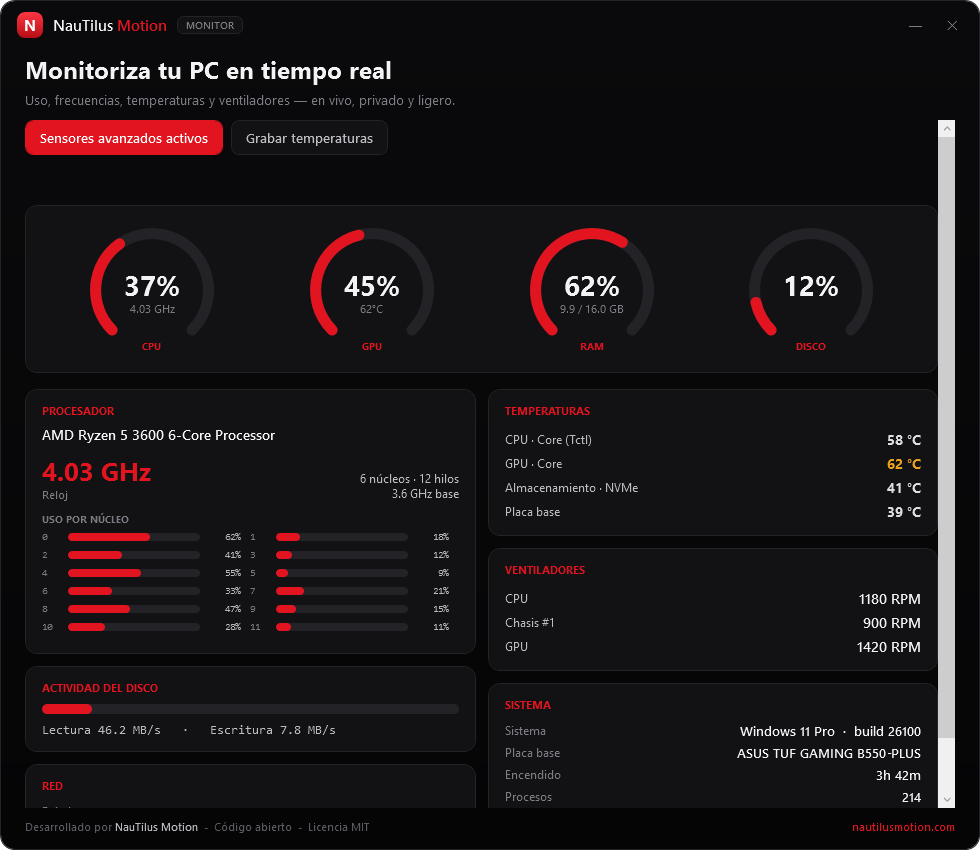
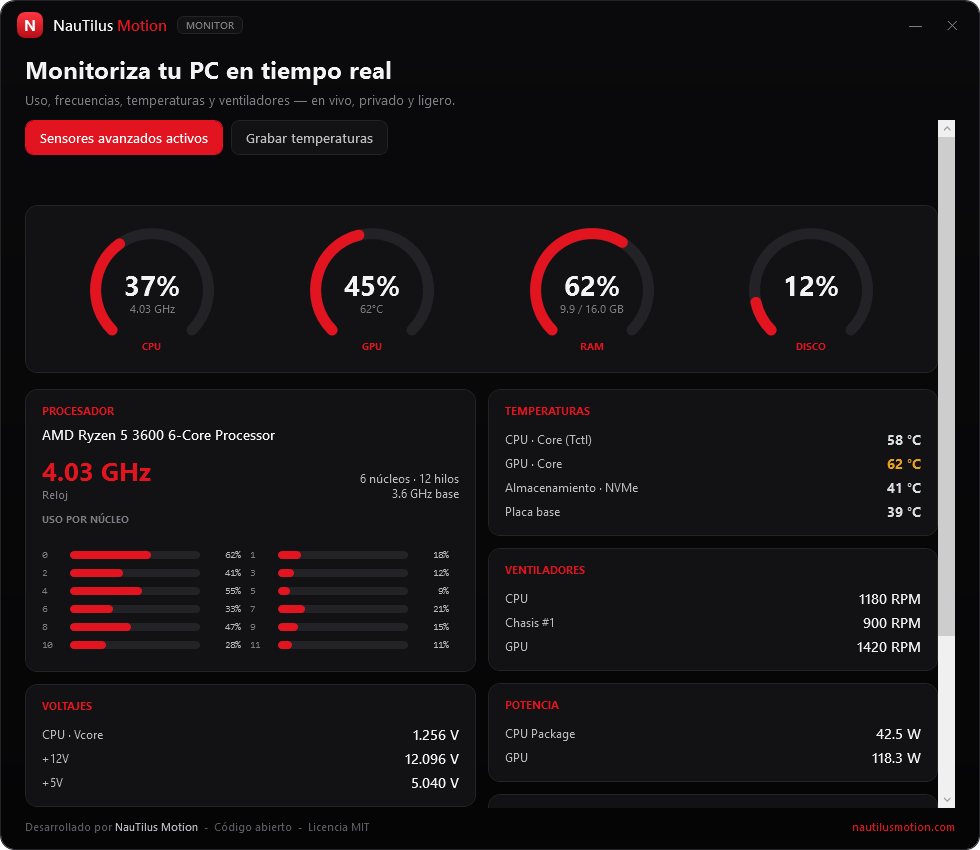
feat: add power/voltage/battery sensors and optional code signing
New sensors: CPU/GPU power (W) and voltages (V) from LibreHardwareMonitor (advanced), battery % and status via GetSystemPowerStatus (laptops/mini-PCs; hidden on desktops), and committed memory via GlobalMemoryStatusEx. New cards auto-hide when a machine doesn't expose them. build.ps1 gains an optional signing step (-SignThumbprint / -SignPfx) via Set-AuthenticodeSignature with timestamping; skipped when no certificate is given.

diff --git a/src/MainWindow.cs b/src/MainWindow.cs
@@ -38,9 +38,10 @@ namespace NautilusMotion.Monitor
         private TextBlock[] _corePcts;
 
         // Fichas dinamicas
-        private StackPanel _tempsHost, _fansHost;
+        private StackPanel _tempsHost, _fansHost, _voltsHost, _powersHost;
+        private Border _voltsCard, _powerCard, _batCard;
         private BarMeter _diskBar;
-        private TextBlock _diskRWTx, _netDownTx, _netUpTx, _uptimeTx, _procTx, _osTx, _boardTx;
+        private TextBlock _diskRWTx, _netDownTx, _netUpTx, _uptimeTx, _procTx, _osTx, _boardTx, _commitTx, _batTx;
 
         // Sensores avanzados
         private Border _advChip;
@@ -205,6 +206,12 @@ namespace NautilusMotion.Monitor
             s.Fans.Add(new FanReading { Name = "CPU", Rpm = 1180 });
             s.Fans.Add(new FanReading { Name = "Chasis #1", Rpm = 900 });
             s.Fans.Add(new FanReading { Name = "GPU", Rpm = 1420 });
+            s.Powers.Add(new SensorReading { Name = "CPU Package", Value = 42.5 });
+            s.Powers.Add(new SensorReading { Name = "GPU", Value = 118.3 });
+            s.Volts.Add(new SensorReading { Name = "CPU · Vcore", Value = 1.256 });
+            s.Volts.Add(new SensorReading { Name = "+12V", Value = 12.096 });
+            s.Volts.Add(new SensorReading { Name = "+5V", Value = 5.04 });
+            s.PageUsedGB = 12.4; s.PageTotalGB = 32.0;
 
             AdvancedSensors.Status = "ok";
             UpdateUi(s);
@@ -285,6 +292,7 @@ namespace NautilusMotion.Monitor
 
             var leftCol = new StackPanel { Margin = new Thickness(0, 0, 6, 0) };
             leftCol.Children.Add(BuildCpuCard());
+            leftCol.Children.Add(BuildVoltsCard());
             leftCol.Children.Add(BuildDiskCard());
             leftCol.Children.Add(BuildNetCard());
             Grid.SetColumn(leftCol, 0);
@@ -293,6 +301,8 @@ namespace NautilusMotion.Monitor
             var rightCol = new StackPanel { Margin = new Thickness(6, 0, 0, 0) };
             rightCol.Children.Add(BuildTempsCard());
             rightCol.Children.Add(BuildFansCard());
+            rightCol.Children.Add(BuildPowerCard());
+            rightCol.Children.Add(BuildBatteryCard());
             rightCol.Children.Add(BuildSystemCard());
             Grid.SetColumn(rightCol, 1);
             g.Children.Add(rightCol);
@@ -426,6 +436,39 @@ namespace NautilusMotion.Monitor
             return card;
         }
 
+        private UIElement BuildVoltsCard()
+        {
+            _voltsCard = Card();
+            var sp = (StackPanel)_voltsCard.Child;
+            sp.Children.Add(Header(Loc.T("card.volts")));
+            _voltsHost = new StackPanel { Margin = new Thickness(0, 2, 0, 0) };
+            sp.Children.Add(_voltsHost);
+            _voltsCard.Visibility = Visibility.Collapsed;   // solo en modo avanzado con datos
+            return _voltsCard;
+        }
+
+        private UIElement BuildPowerCard()
+        {
+            _powerCard = Card();
+            var sp = (StackPanel)_powerCard.Child;
+            sp.Children.Add(Header(Loc.T("card.power")));
+            _powersHost = new StackPanel { Margin = new Thickness(0, 2, 0, 0) };
+            sp.Children.Add(_powersHost);
+            _powerCard.Visibility = Visibility.Collapsed;
+            return _powerCard;
+        }
+
+        private UIElement BuildBatteryCard()
+        {
+            _batCard = Card();
+            var sp = (StackPanel)_batCard.Child;
+            sp.Children.Add(Header(Loc.T("card.battery")));
+            _batTx = new TextBlock { Text = "--", Foreground = Theme.TitleText, FontSize = 15, FontWeight = FontWeights.SemiBold, Margin = new Thickness(0, 2, 0, 0) };
+            sp.Children.Add(_batTx);
+            _batCard.Visibility = Visibility.Collapsed;      // solo si hay bateria
+            return _batCard;
+        }
+
         private UIElement BuildDiskCard()
         {
             var card = Card();
@@ -455,9 +498,10 @@ namespace NautilusMotion.Monitor
             var card = Card();
             var sp = (StackPanel)card.Child;
             sp.Children.Add(Header(Loc.T("card.system")));
-            _osTx = KvValue(); _boardTx = KvValue(); _uptimeTx = KvValue(); _procTx = KvValue();
+            _osTx = KvValue(); _boardTx = KvValue(); _uptimeTx = KvValue(); _procTx = KvValue(); _commitTx = KvValue();
             sp.Children.Add(Kv(Loc.T("lbl.os"), _osTx));
             sp.Children.Add(Kv(Loc.T("lbl.board"), _boardTx));
+            sp.Children.Add(Kv(Loc.T("lbl.commit"), _commitTx));
             sp.Children.Add(Kv(Loc.T("lbl.uptime"), _uptimeTx));
             sp.Children.Add(Kv(Loc.T("lbl.processes"), _procTx));
             return card;
@@ -572,6 +616,10 @@ namespace NautilusMotion.Monitor
                 foreach (FanReading f in s.Fans)
                     _fansHost.Children.Add(FanRow(f));
 
+            // Potencia y voltajes (solo modo avanzado; la ficha se oculta si no hay datos)
+            UpdateSensorCard(_powerCard, _powersHost, s.Powers, " W", "0.0");
+            UpdateSensorCard(_voltsCard, _voltsHost, s.Volts, " V", "0.000");
+
             // Disco (ficha)
             if (s.DiskActivePct >= 0)
             {
@@ -591,8 +639,45 @@ namespace NautilusMotion.Monitor
             _netUpTx.Text = Rate(s.NetUpKBs);
 
             // Sistema
+            _commitTx.Text = s.PageTotalGB > 0 ? F1(s.PageUsedGB) + " / " + F1(s.PageTotalGB) + " GB" : "--";
             _uptimeTx.Text = Uptime(s.Uptime);
             _procTx.Text = s.ProcCount > 0 ? s.ProcCount.ToString() : "--";
+
+            // Batería (solo si el equipo tiene)
+            if (_batCard != null)
+            {
+                if (s.HasBattery)
+                {
+                    _batCard.Visibility = Visibility.Visible;
+                    string st = s.BatteryCharging ? Loc.T("bat.charging") : (s.BatteryAc ? Loc.T("bat.plugged") : Loc.T("bat.onbattery"));
+                    _batTx.Text = (s.BatteryPercent >= 0 ? s.BatteryPercent + "%  ·  " : "") + st;
+                    bool low = !s.BatteryCharging && !s.BatteryAc && s.BatteryPercent >= 0 && s.BatteryPercent <= 20;
+                    _batTx.Foreground = low ? Theme.Warm : Theme.TitleText;
+                }
+                else _batCard.Visibility = Visibility.Collapsed;
+            }
+        }
+
+        private void UpdateSensorCard(Border card, StackPanel host, System.Collections.Generic.List<SensorReading> items, string unit, string fmt)
+        {
+            if (card == null || host == null) return;
+            if (items == null || items.Count == 0) { card.Visibility = Visibility.Collapsed; return; }
+            card.Visibility = Visibility.Visible;
+            host.Children.Clear();
+            foreach (SensorReading r in items)
+                host.Children.Add(ValueRow(r.Name, r.Value.ToString(fmt, Inv) + unit));
+        }
+
+        private UIElement ValueRow(string name, string value)
+        {
+            var g = new Grid { Margin = new Thickness(0, 5, 0, 0) };
+            g.ColumnDefinitions.Add(Col(new GridLength(1, GridUnitType.Star)));
+            g.ColumnDefinitions.Add(Col(GridLength.Auto));
+            var n = new TextBlock { Text = name, Foreground = Theme.BodyText, FontSize = 12, VerticalAlignment = VerticalAlignment.Center, TextWrapping = TextWrapping.Wrap };
+            Grid.SetColumn(n, 0); g.Children.Add(n);
+            var v = new TextBlock { Text = value, Foreground = Theme.TitleText, FontSize = 14, FontWeight = FontWeights.SemiBold, VerticalAlignment = VerticalAlignment.Center, Margin = new Thickness(10, 0, 0, 0) };
+            Grid.SetColumn(v, 1); g.Children.Add(v);
+            return g;
         }
 
         private string GpuTempSmall(Snapshot s)
@@ -907,8 +992,8 @@ namespace NautilusMotion.Monitor
         {
             int rows = (coreCount + 1) / 2;          // 2 columnas de barras por-núcleo
             if (rows < 1) rows = 1;
-            double leftCol = 410 + rows * 19;         // ficha CPU (base + filas) + disco + red
-            double content = Math.Max(leftCol, 480);  // vs. columna derecha (temps + vent. + sistema)
+            double leftCol = 520 + rows * 19;         // ficha CPU (base + filas) + voltajes + disco + red
+            double content = Math.Max(leftCol, 660);  // vs. columna derecha (temps + vent. + potencia + sistema)
             return 478 + content;                     // + barra de título + héroe + gauges + pie
         }
 

diff --git a/src/Sensors.cs b/src/Sensors.cs
@@ -20,6 +20,7 @@ namespace NautilusMotion.Monitor
     // ---- Lecturas puntuales ----
     public sealed class TempReading { public string Name; public double Celsius; }
     public sealed class FanReading  { public string Name; public int Rpm; }
+    public sealed class SensorReading { public string Name; public double Value; } // voltajes (V), potencia (W)
 
     // ---- Instantanea de una muestra ----
     public sealed class Snapshot
@@ -30,7 +31,10 @@ namespace NautilusMotion.Monitor
         public double RamUsedGB;
         public double RamTotalGB;
         public double RamUsedPct;
+        public double PageUsedGB = -1;          // fichero de paginacion en uso (-1 = desconocido)
+        public double PageTotalGB = -1;
         public double GpuLoadPct = -1;          // -1 = desconocida
+        public double GpuMemUsedMB = -1;        // memoria de GPU usada (-1 = desconocida)
         public double DiskActivePct = -1;       // -1 = desconocida
         public double DiskReadMBs = -1;
         public double DiskWriteMBs = -1;
@@ -38,8 +42,15 @@ namespace NautilusMotion.Monitor
         public double NetUpKBs;
         public int ProcCount;
         public TimeSpan Uptime;
+        // Bateria (portatiles / mini-PC). HasBattery=false en equipos sin bateria.
+        public bool HasBattery;
+        public int BatteryPercent = -1;
+        public bool BatteryCharging;
+        public bool BatteryAc;
         public List<TempReading> Temps = new List<TempReading>();
         public List<FanReading> Fans = new List<FanReading>();
+        public List<SensorReading> Volts = new List<SensorReading>();   // voltajes (modo avanzado)
+        public List<SensorReading> Powers = new List<SensorReading>();  // potencia W (modo avanzado)
     }
 
     // ---- Datos fijos del equipo (se leen una vez) ----
@@ -194,6 +205,26 @@ namespace NautilusMotion.Monitor
                     s.RamTotalGB = m.ullTotalPhys / 1073741824.0;
                     s.RamUsedGB = (m.ullTotalPhys - m.ullAvailPhys) / 1073741824.0;
                     s.RamUsedPct = m.dwMemoryLoad;
+                    s.PageTotalGB = m.ullTotalPageFile / 1073741824.0;
+                    s.PageUsedGB = (m.ullTotalPageFile - m.ullAvailPageFile) / 1073741824.0;
+                }
+            }
+            catch { }
+
+            // ---- Bateria (kernel32, independiente del idioma; nada en equipos sin bateria) ----
+            try
+            {
+                Native.SYSTEM_POWER_STATUS ps;
+                if (Native.GetSystemPowerStatus(out ps))
+                {
+                    bool noBattery = (ps.BatteryFlag & 128) != 0;
+                    if (!noBattery && ps.BatteryLifePercent != 255)
+                    {
+                        s.HasBattery = true;
+                        s.BatteryPercent = ps.BatteryLifePercent;
+                        s.BatteryCharging = (ps.BatteryFlag & 8) != 0;
+                        s.BatteryAc = ps.ACLineStatus == 1;
+                    }
                 }
             }
             catch { }
@@ -578,8 +609,14 @@ namespace NautilusMotion.Monitor
                             s.Temps.Add(new TempReading { Name = Trim(hwName, name), Celsius = Math.Round(val, 0) });
                         else if (type == "Fan" && val > 0)
                             s.Fans.Add(new FanReading { Name = Trim(hwName, name), Rpm = (int)Math.Round(val) });
+                        else if (type == "Voltage" && val > 0 && val < 24)
+                            s.Volts.Add(new SensorReading { Name = Trim(hwName, name), Value = Math.Round(val, 3) });
+                        else if (type == "Power" && val > 0 && val < 2000)
+                            s.Powers.Add(new SensorReading { Name = Trim(hwName, name), Value = Math.Round(val, 1) });
                         else if (type == "Load" && isGpu && name.IndexOf("Core", StringComparison.OrdinalIgnoreCase) >= 0)
                             { if (val > gpuLoadMax) gpuLoadMax = val; }
+                        else if (type == "SmallData" && isGpu && val > 0 && name.IndexOf("Memory Used", StringComparison.OrdinalIgnoreCase) >= 0)
+                            { if (val > s.GpuMemUsedMB) s.GpuMemUsedMB = Math.Round(val, 0); }
                     }
 
                 var subs = (System.Collections.IEnumerable)_hwSubHw.GetValue(hw, null);
@@ -663,5 +700,20 @@ namespace NautilusMotion.Monitor
         [DllImport("kernel32.dll", CharSet = CharSet.Unicode, SetLastError = true)]
         [return: MarshalAs(UnmanagedType.Bool)]
         public static extern bool DeleteFile(string name);
+
+        [StructLayout(LayoutKind.Sequential)]
+        public struct SYSTEM_POWER_STATUS
+        {
+            public byte ACLineStatus;        // 0=con bateria, 1=enchufado, 255=desconocido
+            public byte BatteryFlag;         // bit3(8)=cargando, bit7(128)=sin bateria, 255=desconocido
+            public byte BatteryLifePercent;  // 0-100, 255=desconocido
+            public byte SystemStatusFlag;
+            public int BatteryLifeTime;
+            public int BatteryFullLifeTime;
+        }
+
+        [DllImport("kernel32.dll")]
+        [return: MarshalAs(UnmanagedType.Bool)]
+        public static extern bool GetSystemPowerStatus(out SYSTEM_POWER_STATUS status);
     }
 }

diff --git a/src/Loc.cs b/src/Loc.cs
@@ -59,6 +59,14 @@ namespace NautilusMotion.Monitor
             {"card.disk", new[]{"DISK ACTIVITY","ACTIVIDAD DEL DISCO","АКТИВНОСТЬ ДИСКА","ACTIVITÉ DISQUE","DATENTRÄGER","ATIVIDADE DO DISCO"}},
             {"card.net", new[]{"NETWORK","RED","СЕТЬ","RÉSEAU","NETZWERK","REDE"}},
             {"card.system", new[]{"SYSTEM","SISTEMA","СИСТЕМА","SYSTÈME","SYSTEM","SISTEMA"}},
+            {"card.power", new[]{"POWER","POTENCIA","МОЩНОСТЬ","PUISSANCE","LEISTUNG","POTÊNCIA"}},
+            {"card.volts", new[]{"VOLTAGES","VOLTAJES","НАПРЯЖЕНИЯ","TENSIONS","SPANNUNGEN","TENSÕES"}},
+            {"card.battery", new[]{"BATTERY","BATERÍA","БАТАРЕЯ","BATTERIE","AKKU","BATERIA"}},
+            {"bat.charging", new[]{"Charging","Cargando","Зарядка","En charge","Wird geladen","Carregando"}},
+            {"bat.onbattery", new[]{"On battery","Con batería","От батареи","Sur batterie","Akkubetrieb","Na bateria"}},
+            {"bat.plugged", new[]{"Plugged in","Enchufado","Подключено","Branché","Am Netz","Ligado à tomada"}},
+            {"lbl.commit", new[]{"Committed","Confirmada","Выделено","Validée","Zugesichert","Confirmada"}},
+            {"lbl.gpumem", new[]{"GPU memory","Memoria de GPU","Память ГП","Mémoire GPU","GPU-Speicher","Memória da GPU"}},
 
             // Etiquetas
             {"lbl.clock", new[]{"Clock","Reloj","Частота","Fréquence","Takt","Relógio"}},
